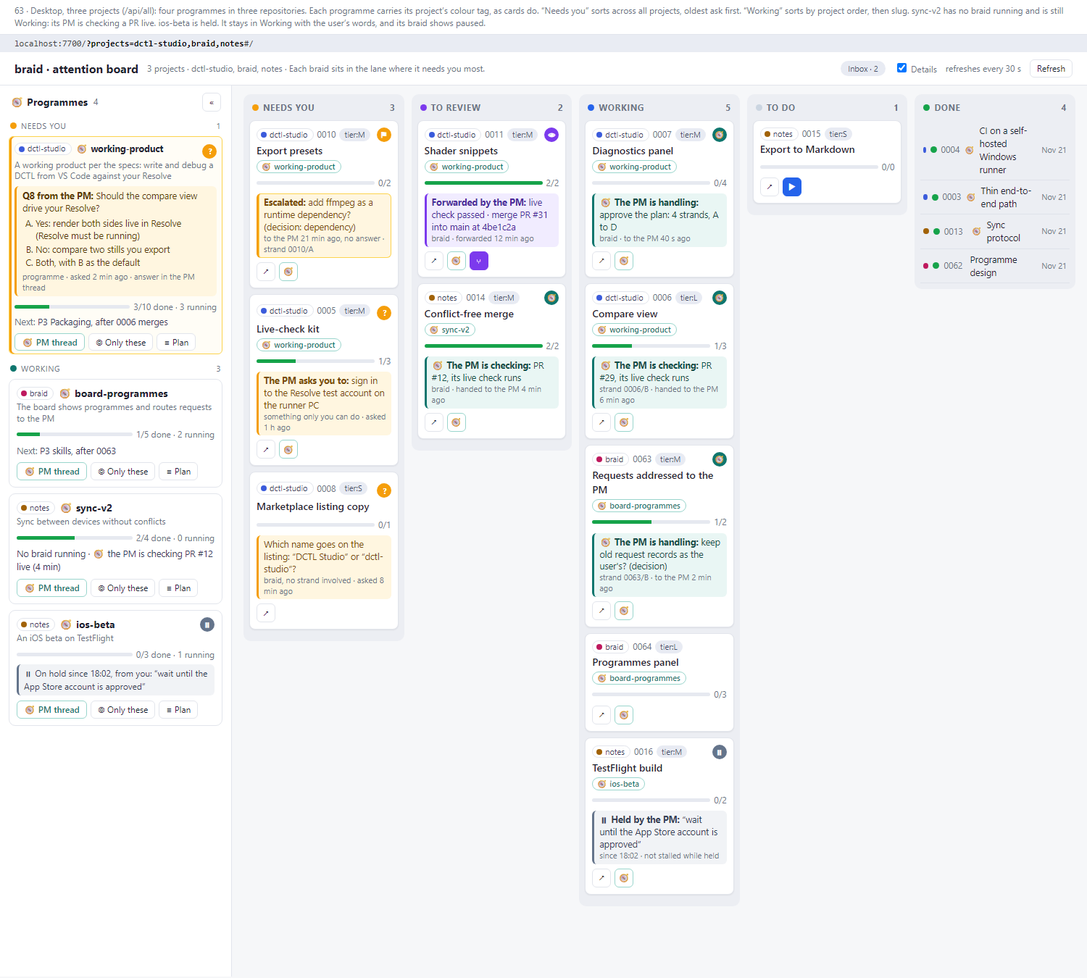
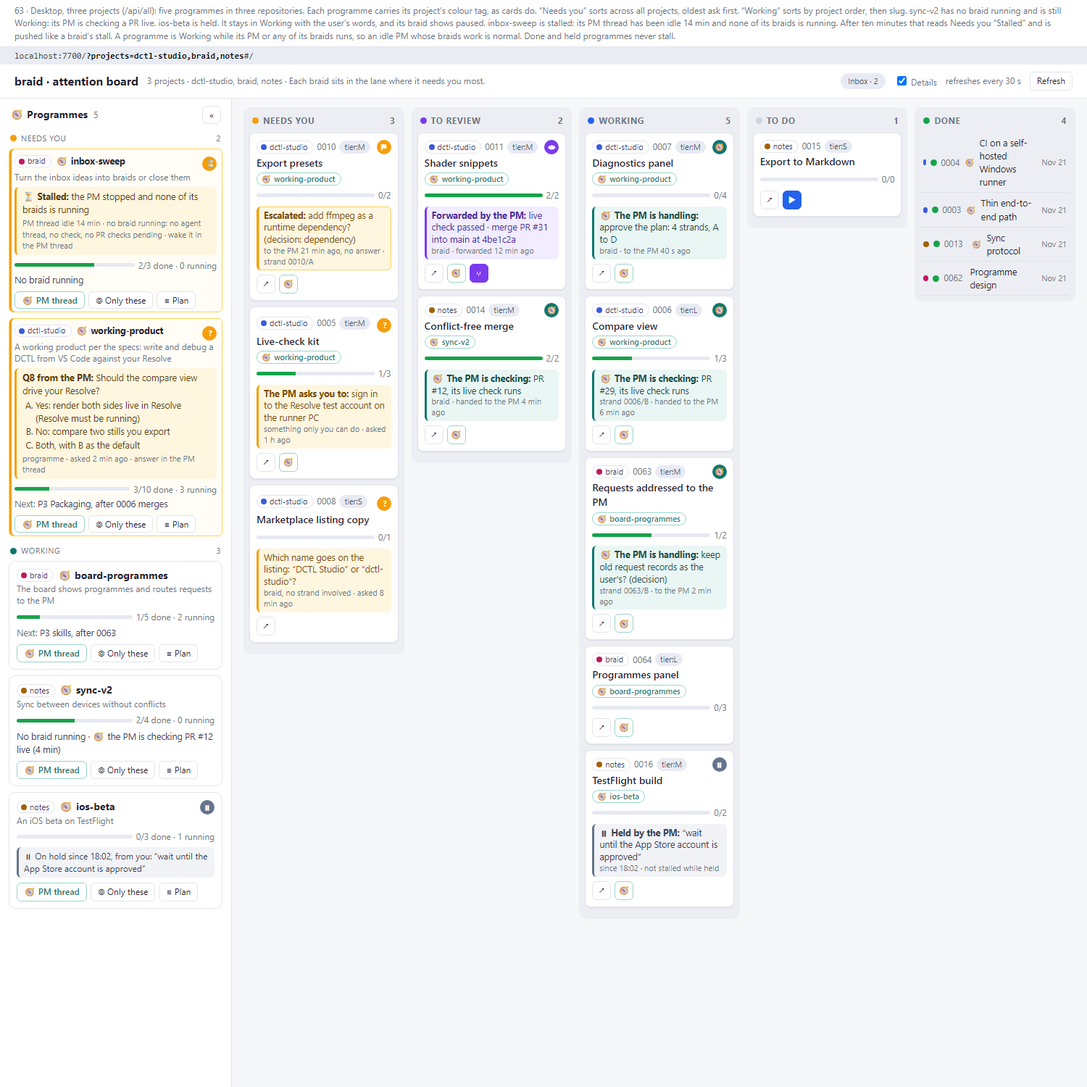
docs(braids): 0062/A programme stall rule, checked against 0061 as built

diff --git a/docs/design/board-mockups/programmes.html b/docs/design/board-mockups/programmes.html
@@ -111,6 +111,9 @@ const PROGS = {
    running:0,done:2,total:4,status:'No braid running · 🧭 the PM is checking PR #12 live (4 min)',braids:['0014']},
  'notes/ios-beta':{project:'notes',slug:'ios-beta',goal:'An iOS beta on TestFlight',
    running:1,done:0,total:3,hold:'⏸ On hold since 18:02, from you: “wait until the App Store account is approved”',braids:['0016']},
+ 'braid/inbox-sweep':{project:'braid',slug:'inbox-sweep',goal:'Turn the inbox ideas into braids or close them',
+   need:{stall:true,lbl:'⏳ Stalled',text:'the PM stopped and none of its braids is running',age:'14 min'},
+   running:0,done:2,total:3,status:'No braid running',braids:[]},
 };
 const LN = ['Needs you','To review','Working','To do','Done'], LC = ['l-wait','l-rev','l-prog','l-todo','l-done'];
 // cards: project, id, tier, title, lane, done, total, need, kind, mark, programme key, buttons
@@ -139,9 +142,9 @@ const stateDot = s=>({done:'l-done',running:'l-prog','waiting on you':'l-wait',p
 const pj = p=>`<span class="pj"><span class="pd p-${p}"></span>${p}</span>`;
 // ---- programme panel ---------------------------------------------------------------------------------------------
 function pcard(key,o){const p=PROGS[key];const sel=o.sel===key;const need=p.need;
- return `<div class="pc ${need?'need':''} ${sel?'sel':''} ${o.sel&&!sel?'dim':''}"><div class="top">${o.multi?pj(p.project):''}<span class="nm">🧭 ${p.slug}</span>${need?'<span class="mk q">?</span>':p.hold?'<span class="mk p">⏸</span>':''}</div>
+ return `<div class="pc ${need?'need':''} ${sel?'sel':''} ${o.sel&&!sel?'dim':''}"><div class="top">${o.multi?pj(p.project):''}<span class="nm">🧭 ${p.slug}</span>${need?`<span class="mk q">${need.stall?'⏳':'?'}</span>`:p.hold?'<span class="mk p">⏸</span>':''}</div>
  <div class="goal">${p.goal}</div>
- ${need?`<div class="q"><span class="lbl">${need.lbl}:</span> ${need.text}<ol type="A">${need.opts.map(x=>`<li>${x}</li>`).join('')}</ol><small>programme · asked ${need.age} ago · answer in the PM thread</small></div>`:''}
+ ${need&&need.stall?`<div class="q"><span class="lbl">${need.lbl}:</span> ${need.text}<small>PM thread idle ${need.age} · no braid running: no agent thread, no check, no PR checks pending · wake it in the PM thread</small></div>`:need?`<div class="q"><span class="lbl">${need.lbl}:</span> ${need.text}<ol type="A">${need.opts.map(x=>`<li>${x}</li>`).join('')}</ol><small>programme · asked ${need.age} ago · answer in the PM thread</small></div>`:''}
  <div class="row" style="margin-top:6px"><div class="bar"><i style="width:${100*p.done/p.total}%"></i></div><span class="mut">${p.done}/${p.total} done · ${p.running} running</span></div>
  ${p.hold?`<div class="hold">${p.hold}</div>`:`<div class="st">${p.status}</div>`}
  <div class="acts"><span class="btn pm">🧭 PM thread</span><span class="btn ${sel?'on':''}" title="${sel?'Show all braids again':'Show only this programme’s braids'}">${sel?'◉ Only these · ✕':'◎ Only these'}</span><span class="btn">≡ Plan</span></div></div>`;}
@@ -163,7 +166,7 @@ function lanes(cards,dones,o={}){const vis=o.sel?cards.filter(c=>c.prog===o.sel)
 function head(multi){return `<header><b>braid · attention board</b><span class="mut">${multi?'3 projects · dctl-studio, braid, notes':'dctl-studio'} · Each braid sits in the lane where it needs you most.</span><span class="sp"></span><span class="badge" style="padding:3px 10px">Inbox · 2</span><label class="mut"><input type="checkbox" checked> Details</label><span class="mut">refreshes every 30 s</span><button>Refresh</button></header>`;}
 const fbar = key=>`<div class="fbar">🧭 Showing only the braids of <b>${key}</b> (${PROGS[key].braids.length}). Your other braids are hidden, and lane counts follow.<span class="sp"></span><span class="btn">Show all</span></div>`;
 const url=(q,h='#/')=>`<div class="url">localhost:7700/<b>${q}</b>${h}</div>`;
-const ONE=[WP], ALL=['dctl-studio/working-product','braid/board-programmes','notes/sync-v2','notes/ios-beta'];
+const ONE=[WP], ALL=['dctl-studio/working-product','braid/board-programmes','notes/sync-v2','notes/ios-beta'], ALL5=['braid/inbox-sweep',...ALL];
 
 // ---- phone -------------------------------------------------------------------------------------------------------
 function ptabs(c,on=0){return `<div class="tabs">${['Needs you','Review','Working','To do','Done'].map((n,i)=>`<a class="${i===on?'on':''}"><b>${c[i]}</b>${n}</a>`).join('')}</div>`;}
@@ -176,7 +179,7 @@ const S = {};
 S['60-panel'] = ()=>`<div class="cap">60 · Desktop, one project. The programmes panel on the left has two sections. A programme that needs you jumps into “Needs you” and shows its question the way a card does: the text, its options, its age, and the PM thread button. Below is “Working”: every programme whose PM runs, even when no braid of it is running. On the right, the lanes are as today. Item-level needs stay on braid cards: an escalated request (0010), a PM action on one braid (0005), a forward (0011). PM-run cards carry the 🧭 programme tag. The lanes no longer hold a programme card.</div>${url('')}${head()}<div class="main">${panel(ONE)}<div class="right">${lanes(CARDS_ONE,DONES_ONE)}</div></div>`;
 S['61-collapsed'] = ()=>`<div class="cap">61 · Desktop, the panel collapsed (« in its header; » brings it back, and the board remembers the choice). The rail keeps one icon per programme. Programmes that need you come first, amber with a count. Working ones show 🧭, or ⏸ when held. Each icon has its project’s colour dot, and its tooltip names the programme.</div>${url('?projects=dctl-studio,braid,notes')}${head(true)}<div class="main col">${rail(ALL)}<div class="right">${lanes(CARDS_ALL,DONES_ALL,{multi:true})}</div></div>`;
 S['62-filtered'] = ()=>`<div class="cap">62 · Desktop, filtered to one programme with its “Only these” button. The button stays pressed, and the other programmes dim. The lanes show only that programme’s braids. A teal bar above them says so and offers “Show all”, which does the same as pressing the button again. The address keeps the filter as ?programme=&lt;project&gt;/&lt;slug&gt;, and it combines with ?projects=.</div>${url('?projects=dctl-studio,braid,notes&programme=dctl-studio/working-product')}${head(true)}<div class="main">${panel(ALL,{sel:WP,multi:true})}<div class="right">${fbar(WP)}${lanes(CARDS_ALL,DONES_ALL,{sel:WP,multi:true})}</div></div>`;
-S['63-projects'] = ()=>`<div class="cap">63 · Desktop, three projects (/api/all): four programmes in three repositories. Each programme carries its project’s colour tag, as cards do. “Needs you” sorts across all projects, oldest ask first. “Working” sorts by project order, then slug. sync-v2 has no braid running and is still Working: its PM is checking a PR live. ios-beta is held. It stays in Working with the user’s words, and its braid shows paused.</div>${url('?projects=dctl-studio,braid,notes')}${head(true)}<div class="main">${panel(ALL,{multi:true})}<div class="right">${lanes(CARDS_ALL,DONES_ALL,{multi:true})}</div></div>`;
+S['63-projects'] = ()=>`<div class="cap">63 · Desktop, three projects (/api/all): five programmes in three repositories. Each programme carries its project’s colour tag, as cards do. “Needs you” sorts across all projects, oldest ask first. “Working” sorts by project order, then slug. sync-v2 has no braid running and is still Working: its PM is checking a PR live. ios-beta is held. It stays in Working with the user’s words, and its braid shows paused. inbox-sweep is stalled: its PM thread has been idle 14 min and none of its braids is running. After ten minutes that reads Needs you “Stalled” and is pushed like a braid’s stall. A programme is Working while its PM or any of its braids runs, so an idle PM whose braids work is normal. Done and held programmes never stall.</div>${url('?projects=dctl-studio,braid,notes')}${head(true)}<div class="main">${panel(ALL5,{multi:true})}<div class="right">${lanes(CARDS_ALL,DONES_ALL,{multi:true})}</div></div>`;
 S['64-programme-details'] = ()=>{const p=PROGS[WP];return `<div class="cap">64 · Desktop, a programme’s details (≡ Plan in its panel card, or a click on its name). The side panel shows what the plan file’s front matter holds: the goal, every plan row with its braid number (P-rows keep their names), next, what the PM is handling now, the last digest, the hold, and the parallel limit. It reads like a braid’s side panel, and the address is #/programme/dctl-studio/working-product.</div>${url('','#/programme/dctl-studio/working-product')}<div style="position:relative;height:960px;overflow:hidden">${head()}<div class="main">${panel(ONE,{sel:null})}<div class="right">${lanes(CARDS_ONE,DONES_ONE)}</div></div>
  <div class="panel"><div class="ph2"><h2>🧭 working-product</h2><span class="pj"><span class="pd p-dctl-studio"></span>dctl-studio</span><span class="sp"></span><span class="btn pm">🧭 PM thread</span><span class="btn">◎ Only these</span><button>✕</button></div>
  <div class="body"><div class="q" style="margin:0"><span class="lbl">Q8 from the PM:</span> ${p.need.text}<ol type="A">${p.need.opts.map(x=>`<li>${x}</li>`).join('')}</ol><small>asked 2 min ago · answer in the PM thread</small></div>

diff --git a/braids/0062-programme-manager-on-the-board-and-in/A-spike-programme-model-routing-pushes-and/report.md b/braids/0062-programme-manager-on-the-board-and-in/A-spike-programme-model-routing-pushes-and/report.md
@@ -12,7 +12,7 @@ A request addressed to the PM stays in Working with a teal "PM is handling" line
 
 The PM's own questions become requests on the programme (`braid ask pm/<slug>`) or on the braid they concern. They are pushed at high priority with the PM thread as the click target.
 
-On the board, programmes get a collapsible panel on the left, revised after the user's review. It has two sections, "Needs you" on top and "Working" below. A programme is Working whenever its PM runs, and it jumps to Needs you while one of the PM's own questions or actions is open. Each programme has an "Only these" button that filters the lanes to its braids. The panel lists the programmes of every project the board serves, keyed `<project>/<slug>` (question 9). Needs that belong to one braid stay on its card in the lanes.
+On the board, programmes get a collapsible panel on the left, revised after the user's review. It has two sections, "Needs you" on top and "Working" below. A programme is Working whenever its PM runs, and it jumps to Needs you while one of the PM's own questions or actions is open, or when for ten minutes neither its PM nor any of its braids has been running (an idle PM whose braids work is normal). Each programme has an "Only these" button that filters the lanes to its braids. The panel lists the programmes of every project the board serves, keyed `<project>/<slug>` (question 9). Needs that belong to one braid stay on its card in the lanes.
 
 A hold is 0061's paused state with a second reason. The names `braid-pm`, `🧭 … pm:` and `pm/<slug>` stay. ntfy action buttons wait for a later braid.
 
@@ -80,13 +80,24 @@ The user's reasons: a programme isn't a braid. Several of its braids run at once
 - **Where.** A panel on the left of the lanes, about 320 px wide. « in its header collapses it to a rail of icons, and » brings it back. The board remembers the choice in the browser (local storage), like Details.
 - **Two sections**, stacked vertically:
   - **Needs you**: a programme with an open request of the PM's own on the programme (`braid ask pm/<slug>`; question 3). Its card shows the request the way a braid card does: the label ("Q8 from the PM", "The PM asks you to"), the text with its options as a list, the age, "answer in the PM thread", and the 🧭 PM thread button. The oldest ask comes first.
-  - **Working**: every other programme whose plan `state` is `running` or `held`, whether or not a braid of it runs. Its card shows the goal, a done bar with "3/10 done · 3 running", and one status line. That line is `next` from the front matter, or what the PM is doing when no braid runs ("No braid running · the PM is checking PR #12 live"), or the hold in the user's words.
+  - **Working**: a programme whose PM thread is running, or at least one of whose braids is running (rule below), or which is held. Its card shows the goal, a done bar with "3/10 done · 3 running", and one status line. That line is `next` from the front matter, or what the PM is doing when no braid runs ("No braid running · the PM is checking PR #12 live"), or the hold in the user's words.
   - `done` and `stopped` programmes leave the panel. Their details stay reachable from the braids' 🧭 tags.
 - **Only these.** Each card has a "◎ Only these" button that shows just that programme's braids in the lanes. The button stays pressed, the other cards dim, and a teal bar above the lanes says what is shown and offers "Show all". Pressing the button again does the same. The address keeps it as `?programme=<project>/<slug>`, rewritten like `?projects=` without a history entry. Lane counts, the phone tabs and the inbox chip follow it.
 - **Details.** "≡ Plan", or a click on the name, opens a side panel like a braid's (`#/programme/<project>/<slug>`). It shows the open question, the goal, every plan row with its braid number, next, what the PM is handling, the last digest, the parallel limit, the hold, and a link to the plan file (screen 64).
 - **Rail.** Collapsed, the panel keeps one icon per programme. Programmes that need you come first, amber with a count. Working ones show 🧭, or ⏸ when held. Each icon has its project's colour dot, and its tooltip names the programme (screen 61).
-- **What stays on braid cards.** Item-level needs stay in the lanes: a coordinator request to the PM (Working, teal), one escalated or forwarded to the user, a PM action on one braid ("The PM asks you to" on 0005). Only the PM's own requests on the programme put the programme itself into Needs you. The lanes no longer have a programme card, and there is no Programmes block above them.
-- **A PM thread that stopped.** If the plan says `running` but T3 says the PM thread is archived, unknown or failed, the card stays in Working with a red line, "The PM thread failed 12 min ago", and the PM's open requests escalate to their braid cards (question 2). Per the user's rule, this doesn't move the programme to Needs you. If the user wants a stopped PM to count as needing them, it is a one-line change in D. That is open for their review.
+- **What stays on braid cards.** Item-level needs stay in the lanes: a coordinator request to the PM (Working, teal), one escalated or forwarded to the user, a PM action on one braid ("The PM asks you to" on 0005). The PM's own requests on the programme put the programme itself into Needs you, and so does a stalled PM (next point). The lanes no longer have a programme card, and there is no Programmes block above them.
+- **A stalled programme** (decided by the user in review; screen 63). In the user's words: "usually pm has some braids running, or if not, it's running itself. otherwise it can be stalled unless it's marked done". So a programme is Working while either of these holds:
+  - its PM thread is running;
+  - at least one of its braids is running: any agent thread of the braid runs (coordinator, worker or reviewer, as D46 counts them [S9]), or the PM's checker thread for it (`🧭 <repo> pm check: …`), or a PR of the braid has checks pending.
+
+  Otherwise, after ten minutes, the programme reads Needs you `stalled`: "⏳ Stalled: the PM stopped and none of its braids is running". An idle PM thread counts as not running, and so does one that is failed, archived or unknown to T3. The rule has the same shape and clock as the braid-level stall (D46 [S9], `docs/board.md` "stalled, braid with strands" [S5]), and it applies only after T3 and GitHub were read. The clock sits in `.braid/broke.json` under its own key, `<project>/<slug> pm`, apart from the braids' keys. It clears as soon as the PM or any of its braids runs again, so a brief blip in a T3 read raises no alarm.
+
+  Not stalled:
+  - a programme marked `done` (or `stopped`) in its plan, which leaves the panel;
+  - a programme on hold: the plan's `hold` is set, or every braid of it that isn't Done is paused (0061's limit pause or a hold; question 6). It stays Working with the hold's words or the pause line;
+  - a programme with a PM request to the user open, which is already in Needs you for that request. The request shows, and no stall line is added.
+
+  The card adds what it saw ("PM thread idle 14 min · no braid running"), or names a thread that is gone ("the PM thread failed 12 min ago"). The push is `<repo> <slug>: Needs You`, with tag `stalled` ⏳ and priority high, and tapping it opens the PM thread. Open requests to a failed or gone PM still escalate onto their braid cards at once, as question 2 designs; that path doesn't wait for this clock.
 - **Options.** A request has no options field [S6], and none is added. The PM writes the options as lines of the text ("A. …", "B. …"). The panel shows the text's lines, and lines starting with a letter and a dot show as a list. The answer is given in the PM thread, as today: the board has no Answer button [S5].
 - **Phone** (screens 66–67). The panel becomes a strip above the lane tabs. Closed, it is one 48 px line: "🧭 1 needs you · 3 working", amber when a programme needs you. Open, it lists programmes that need you as cards (question, options, a 44 px PM thread button), then working programmes one line each with 🧭 and ◎ buttons. A programme filter shows as a chip under the strip, and ✕ clears it.
 
@@ -114,7 +125,7 @@ The user's reasons: a programme isn't a braid. Several of its braids run at once
 1. **Timeout:** 20 min for a question, decision or plan, and 60 min for a handover (a review).
    - Base rate [S1]: the PM's answer gaps were 6–55 s, so 20 min is over 20 times the slowest and leaves room for a PM in a long turn on something else. A live check took 2.7 and 19.4 min, and the failed first check of 0003 about 18 min, so 60 min covers one check and a re-check.
    - These are constants, like the 10-minute broke clock. Made configurable only if a run shows the need.
-2. **The PM thread is not there to answer:** T3 says it is archived, unknown or failed (`t3 thread list` status). An idle PM thread is normal (the PM waits by ending its turn [S3]) and doesn't escalate.
+2. **The PM thread is not there to answer:** T3 says it is archived, unknown or failed (`t3 thread list` status). An idle PM thread is normal (the PM waits by ending its turn [S3]) and doesn't escalate. A programme whose PM is idle and none of whose braids is running is the programme-level stall (question 1, "A stalled programme").
 3. **The PM forwards it:** `braid forward <id> [--note <text>]`, run by the PM, sets `to: "user"` and `forwarded: <time>`, and keeps the text, adding the note. It then reads as an ordinary request of the user's, with "Forwarded by the PM:" and the PM thread as click. This is the fix for #147: the coordinator's request stays open, now for the user.
 
 No request escalates while its braid is paused or held (question 6).
@@ -166,6 +177,7 @@ Agent Inbox's item ("action request" plus the responses it allows [S19]) points 
 | The PM's own request (programme or braid) | yes, title `<repo> <slug>: the PM asks` | high | the PM thread |
 | The PM's `action` request | yes, "the PM asks you to" | high | the PM thread |
 | A PM-run braid becoming Done | yes | **low** (no sound or vibration [S12]) | none |
+| A programme stalled (PM not running and none of its braids running, 10 min) | yes, `<repo> <slug>: Needs You`, tag ⏳ | high | the PM thread |
 | The broke alarms on a PM-run braid (checks failed, stalled) | yes | default (not high) | the PM thread |
 | The digest; PM-run strands merging | none | | |
 | Held or paused braids | none | | |
@@ -201,26 +213,43 @@ Not adopted: `braid ask` sending its push at once. It would split sending betwee
 
 ## 6. Hold and pause
 
-**Recommendation: one board state, "paused" (grey ⏸), with two reasons.**
+**Recommendation: one board state, 0061's "paused", with two reasons.**
 
-- The two reasons are 0061's rate-limit pause and the user's hold.
-- Both mean no Needs You, no `stalled`, no escalation and no push [S10].
+- The two reasons are 0061's provider-limit pause and the user's hold.
+- Both mean no Needs You, no `stalled`, no escalation and no push [S10][S29].
+- They use 0061's mark as built: the sky pause icon, and a line on Working and To Do cards when Details is on [S29]. The mockups here draw it grey; read that as 0061's sky mark.
 - The line says which reason applies:
-  - "⏸ Paused: Claude 5-hour window 93 %, resumes 21:40";
-  - "⏸ Held by the PM: “Please freeze work…” · since 16:31".
+  - a limit, as 0061/C words it: "Paused: Claude_Everix Session 97%, resumes 21:05", with "paused by the coordinator 18 min ago" under it [S29];
+  - a hold: "Held: “Please freeze work…”", with "held by the PM since 16:31" under it.
 
 The mockup's screen 63 shows a held programme (`notes/ios-beta`) in Working, with its braid paused.
 
-**Store.** The hold uses 0061/C's `.braid/pauses.json` with a `reason: "hold"` and the user's words, and no `resumeAt`, through `braid pause <n> --hold "<words>" --thread <PM thread>`. The PM runs it for each running braid when it sends `Hold from the user` [S3]. `braid resume` clears it.
+**Store.** The hold uses 0061/C's `.braid/pauses.json` and `braid pause` / `braid resume`. As built, though, they don't fit a hold yet (checked against `origin/braid/0061-…` at 59a723c5, PR #229 [S29]):
+
+- A record requires `provider` (non-empty) and `resumeAt` (ISO), and has no reason field. A hold has neither a provider nor a resume time.
+- `braid pause` requires `--provider`, and refuses unless `braid limits` says `pause` or `--until` is given.
+- Past `resumeAt`, the mark turns amber after 15 min ("resume was due"), and the item reads `stalled` after 25 min (`src/board/pause.ts`).
+- A record that fails validation is left out with a note, so a hold record would be dropped by a 0061-era board.
+
+So strand B extends the store, as follows:
+
+- A record gains `reason: "limit" | "hold"`, where a missing reason reads as `limit`, so 0061's records stay valid. A hold also gains `words` (the user's words).
+- For a hold, `provider`, `resumeAt`, `window` and `task` are null. Validation requires them only for `limit`.
+- `braid pause <n> --hold "<words>" --thread <id> [--by pm]` writes a hold. `--provider` and `braid limits` are not used.
+- The overdue phases (`due`, `over`) apply only to a limit. A hold has no due time, so it never turns amber or `stalled`. It shows its age instead.
+- `braid status` and the details box show the hold and its words.
+- `braid resume <n>` clears either kind, as built.
+
+The PM runs `braid pause --hold` for each running braid when it sends `Hold from the user` [S3], and `braid resume` on "go".
 
 - A pause record already says who paused (`coordinator` or `pm`) [S10].
 - One store means one rule in `derive`, and a hold works for a braid the user runs without a PM too.
-- A hold has no due time, so it never turns `stalled`. It shows its age instead.
 - The plan's front-matter `hold` field gives the programme's panel card "On hold since 16:31" and the user's words. A held programme stays in Working: a hold is the user's own choice and needs nothing from them.
+- **A programme paused for a limit.** Under 0061/D the PM pauses every braid on the provider and keeps a resume task in its own thread [S30]. While every braid of the programme that isn't Done is paused (for either reason), the programme counts as held for the stall rule (question 1). Its card shows "Paused for Claude_Everix Session until 21:05". Once the resume is overdue, 0061's own `stalled` on the braids takes over [S29].
 
 Against: the hold is written twice, in the plan file and once per braid. The other way, deriving each braid's hold from the plan, would make B's escalation and the board's `stalled` read plan files. That couples B to D, and a held user-run braid would have no store.
 
-**Dependency.** This needs 0061/C merged. The braid brief already starts B to D after 0061.
+**Dependency.** 0061/C is merged into the 0061 braid branch (PR #229), not yet into `main`. 0061/D (PR #231, skills) is open. B and E start after 0061 merges into `main`, which the braid brief already requires for B to D.
 
 ## 7. Naming
 
@@ -263,9 +292,9 @@ The board can serve several projects (`/api/all`, `?projects=` [S5]). The panel 
 
 ## Strands, restated
 
-Sizes are estimates. Together about 2,050 lines, more than the braid's 1,200: the plan-file contract, the second request slot and the programmes panel across projects weren't in the original estimate.
+Sizes are estimates. Together about 2,240 lines, more than the braid's 1,200: the plan-file contract, the second request slot and the programmes panel across projects weren't in the original estimate.
 
-**B. Requests addressed to the PM (M, about 450 lines, 9 files).**
+**B. Requests addressed to the PM, and the hold in the pause store (M, about 570 lines, 12 files).**
 
 What it builds:
 
@@ -275,13 +304,15 @@ What it builds:
 - The notifier pushes only what is on the user's side, with high priority and the right click for escalations and forwards.
 - `braid status` and `braid requests` show the addressee.
 - The ntfy sequence ID with `clear` on close.
+- The hold in 0061/C's pause store (question 6): `reason` (missing reads as `limit`) and `words` on a record; `provider`, `resumeAt`, `window` and `task` null for a hold; `braid pause <n> --hold "<words>" --thread <id> [--by pm]`; the overdue phases only for a limit; the hold shown in `braid status`, on the card line and in the details box.
 
-Needs 0061/C (paused). Completion boxes:
+Needs 0061 merged into `main` (0061/C's `pauses.json`, `braid pause`, `braid resume` and paused marks). Completion boxes:
 
 - [ ] A request opened with `--to pm` reads Working with "The PM is handling" and sends no push; tests cover each lane rule
 - [ ] It reads Needs You (a review: To Review) and is pushed once after 20 min (a review: 60 min), when the PM thread is archived, unknown or failed, or after `braid forward`, and never while the braid is paused; tests cover each case
 - [ ] Old request records without `to` read as the user's
 - [ ] An answered request's push is cleared on Android (sequence ID), checked with `braid notify test`
+- [ ] `braid pause <n> --hold "<words>"` records a hold with no provider or resume time; it shows paused with the words, never turns amber or stalled, and `braid resume` clears it; 0061's limit records without `reason` still read as before; tests cover both kinds
 
 **C. The PM asks you through the board (M, about 350 lines, 8 files).**
 
@@ -299,13 +330,14 @@ Completion boxes:
 - [ ] `braid ask pm/<slug>` opens a programme request that shows in Needs You and is pushed at high priority with the PM thread as click
 - [ ] `--kind action` reads "The PM asks you to: …" on the board and in the push
 
-**D. The programmes panel on the board (L, ui, about 950 lines, 12 files).**
+**D. The programmes panel on the board (L, ui, about 1,000 lines, 13 files).**
 
 What it builds:
 
 - The plan front-matter format, with a reader and `braid check --plan`.
 - The board reads `pm/*` branches per project, and `programmes` in `/api/board` and `/api/all` (question 9).
 - The collapsible programmes panel left of the lanes, with Needs you and Working sections, and the rail (screens 60, 61 and 63).
+- The programme-level stall (PM not running and no braid running, except done, held or asking): its clock key `<project>/<slug> pm` in `broke.json`, the card line and the push (screen 63).
 - "Only these" with `?programme=<project>/<slug>`, combined with `?projects=` (screen 62).
 - The programme details side panel (screen 64).
 - The 🧭 tag on PM-run cards and Done rows, and project colour tags on programme cards.
@@ -315,20 +347,22 @@ What it builds:
 
 Needs B and C. Completion boxes:
 
-- [ ] A plan with valid front matter shows as a programme in the panel, in Needs you while a PM request on it is open and in Working otherwise, including with no braid running; an unreadable one shows "plan unreadable: <line>" and the board still works
+- [ ] A plan with valid front matter shows as a programme in the panel, in Needs you while a PM request on it is open and in Working otherwise while its PM or one of its braids runs (including an idle PM whose braids work, and a running PM with no braid running); an unreadable one shows "plan unreadable: <line>" and the board still works
+- [ ] A programme whose PM thread isn't running (idle, failed, archived or gone) and none of whose braids is running (no agent thread, no checker, no PR checks pending) reads Needs you `stalled` after ten minutes on its own clock (`<project>/<slug> pm`) and is pushed once; it clears when the PM or a braid runs again; a done, stopped or held programme never stalls, and one with an open PM request shows that request instead; tests cover each case
 - [ ] "Only these" filters the lanes to the programme's braids and back, keeps `?programme=<project>/<slug>` with `?projects=`, and survives a reload on desktop and phone
 - [ ] With several projects served, the panel lists every shown project's programmes with project tags; two projects with the same slug stay apart in the panel, the filter and the pushes
 - [ ] The panel collapses to the rail and back, and the board remembers the choice
 - [ ] A held programme shows the user's words on its card, and its braids show paused, not stalled
 - [ ] Screenshots of each screen, matching the approved mockups
 
-**E. Skills: the programme manager routes through the board (L, about 200 lines, 4 files).**
+**E. Skills: the programme manager routes through the board (L, about 220 lines, 5 files).**
 
 What it builds:
 
 - `braid-pm` is named "programme manager". It keeps the plan file's front matter (the template changes) and validates it with `braid check --plan`.
 - It asks the user through `braid ask pm/<slug>` or `--by pm` (still also in chat, context first).
-- It forwards with `braid forward`, holds with `braid pause --hold`, and writes `digest`.
+- It forwards with `braid forward`, and writes `digest`.
+- **Builds on 0061/D** (PR #231), which rewrote braid-pm's "Hold" line and added "Provider limits" to braid-pm and "Under a PM" to `references/limits.md` [S30]. As 0061/D leaves it, a hold is message-only: `Hold from the user: <words>` to every coordinator, noted in the plan file. E adds `braid pause <n> --hold "<words>" --thread <PM thread> --by pm` for each running braid and the front-matter `hold`, and `braid resume` on "go". It keeps 0061/D's limit protocol as is: the PM's `braid pm limits check` task, `braid pause --by pm`, and its resume task. E changes 0061/D's text, so it starts after #231 merges and edits those sections rather than rewriting them.
 - "Launched by a PM" uses `--to pm` on `ask` and `handover`, and never closes a request the user still has to act on.
 
 Changes skills, so the user merges it. Completion boxes:
@@ -336,6 +370,7 @@ Changes skills, so the user merges it. Completion boxes:
 - [ ] `braid-pm` and "Launched by a PM" use `--to pm`, `braid forward`, `braid ask pm/<slug>`, `--kind action` and `braid pause --hold` as built
 - [ ] The plan template has the front matter, and the skill validates it before each push
 - [ ] The name "programme manager" throughout; `braid-pm`, `🧭 … pm:` and `pm/<slug>` unchanged
+- [ ] braid-pm's "Hold" records `braid pause --hold` per running braid and the plan's `hold`, and "Provider limits" from 0061/D is unchanged
 
 **F. Docs (L, about 200 lines).**
 
@@ -352,7 +387,7 @@ No strand is dropped. The headless board is docs in F, not a strand of its own.
 
 ## Validation
 
-- `npm run verify` passed locally on 2026-11-21: 444 tests, 0 failed.
+- `npm run verify` passed locally on 2026-11-22: 444 tests, 0 failed.
 - The mockups render in Edge headless (screenshots in `screenshots/`).
 - The report changes no product code, skill or docs; the only new file outside the item folder is `docs/design/board-mockups/programmes.html`.
 - Docs: none affected (a spike with mockups only).
@@ -364,7 +399,7 @@ No strand is dropped. The headless board is docs in F, not a strand of its own.
 - 60 desktop, one project: the programmes panel with a programme in Needs you, the lanes with the PM-handled, escalated, forwarded and PM-asked braid cards;
 - 61 the panel collapsed to its rail, three projects;
 - 62 filtered to one programme ("Only these"), three projects;
-- 63 three projects, four programmes: one needs you, one has no braid running, one is held;
+- 63 three projects, five programmes: one asks you a question, one is stalled, one has no braid running, one is held;
 - 64 a programme's details side panel;
 - 65 the side panel of a braid whose request the PM handles (unchanged);
 - 66 the phone, the programmes strip open;
@@ -387,8 +422,8 @@ Needs the user: `architecture`: the design for programmes on the board (screens 
 - the plan file's front matter, which the PM writes and the board reads;
 - request fields `to`, `pm` and `by`, and the new kind `action`;
 - the new command `braid forward`;
-- `braid pause --hold` on 0061's store;
+- `braid pause --hold` on 0061's store, which needs `reason` and nullable `provider` and `resumeAt` in its records (question 6);
 - the 20 and 60 min escalation timeouts;
 - the programme key `<project>/<slug>`, `programmes` in `/api/board` and `/api/all`, and `?programme=`.
 
-Open for the user's review: whether a PM thread that stopped puts its programme into Needs you. The design keeps it in Working with a red line, per the user's rule that only the PM's own requests do.
+Settled in review: a programme is Working while its PM or one of its braids runs. Otherwise, after ten minutes, it reads Needs you `stalled`, unless it is done, held, or already in Needs you for a PM request (question 1, "A stalled programme").

diff --git a/braids/0062-programme-manager-on-the-board-and-in/A-spike-programme-model-routing-pushes-and/sources.md b/braids/0062-programme-manager-on-the-board-and-in/A-spike-programme-model-routing-pushes-and/sources.md
@@ -76,3 +76,17 @@ The thread S1 and the plan file S2 were read whole by a researcher subagent I la
 - S28 `docs/design/board-mockups/all-projects.html` — this repository · version: ab06142 · accessed 2026-11-21 · read: part (its CSS, the project lines, the phone picker) · says: the approved style for a block above the lanes, filter lines and the phone picker sheet. · adopted as the style of `programmes.html`.
 
 Set aside: OpenAI Agents SDK, Temporal, Devin and the Copilot coding agent were not read, for time. Three orchestrators with readable docs were enough to show that none has built-in escalation on timeout. ArchWiki's Systemd/User page was blocked by bot protection, so the freedesktop man pages were used instead. A search summary calling Agent Inbox active was set aside: GitHub shows it archived.
+
+Added after the design review, to check question 6 and strands B to E against 0061 as built:
+
+- S29 0061/C as built — branch `origin/braid/0061-pause-and-resume-braids-on-provider-rate` (PR #229 merged into it) · version: 59a723c5 (2026-11-21 23:30 +0100) · accessed 2026-11-22 · read: part (`src/braids/pauses.ts` whole; `src/board/pause.ts` phases; the diff of `docs/cli.md`, `docs/braids-format.md` and `docs/decisions.md` D86; `docs/board.md` "Paused") · says:
+  - A pause record requires `braid`, a non-empty `provider`, `resumeAt` (ISO), `thread`, `by` (`coordinator` or `pm`) and `at`, with `window`, `label`, `usedPercent`, `resetsAt` and `task` nullable. It has no reason field. Invalid records "are left out with a note".
+  - `braid pause` needs `--provider` and is "refused unless the verdict is `pause`" or `--until` is given.
+  - The board shows "a sky pause icon" and a line on Working or To Do cards. A pause "opens no Needs You", and `stalled` "is held back (both kinds)".
+  - 15 min past `resumeAt` the mark turns amber ("resume was due"). At 25 min the item reads `stalled`.
+  · adopted: the hold goes in this store, which needs `reason` and nullable `provider` and `resumeAt` (strand B).
+- S30 0061/D, pause and resume in the skills — PR #231 (`braid/0061/D-pause-and-resume-in-the-skills`, open) · version: the PR diff on 2026-11-22 · accessed 2026-11-22 · read: part (the diff of `braid-pm/SKILL.md`, `braid/SKILL.md`, `references/limits.md`, `references/autonomy.md` and `braid-worker/SKILL.md`) · says:
+  - braid-pm gets "Provider limits": a `braid pm limits check` task every 15 min, a pause message to each coordinator, `braid pause --by pm`, and a resume task in the PM's thread.
+  - braid-pm's "Hold" stays message-only and adds "A pause for a provider's usage limit is "Provider limits" instead."
+  - Under a PM, a coordinator over a threshold tells the PM and runs no `braid pause`.
+  · adopted: E builds on these sections after #231 merges, and adds `braid pause --hold` to "Hold".

diff --git a/braids/0062-programme-manager-on-the-board-and-in/A-spike-programme-model-routing-pushes-and/log-2026-11-21-fd8726dc.md b/braids/0062-programme-manager-on-the-board-and-in/A-spike-programme-model-routing-pushes-and/log-2026-11-21-fd8726dc.md
@@ -17,3 +17,15 @@ done: gate passed (444 tests). next: PR into the braid branch, report to the coo
 Decided (user review): programmes move to a collapsible left panel with Needs you and Working sections; the programme card in the lanes and the block above them are gone. Item-level needs stay on braid cards.
 Decided: programme key <project>/<slug> on the board, programmes in /api/board and /api/all, ?programme= combines with ?projects=; question 9 added. Strand D grows to about 950 lines.
 Open for the user: a stopped PM thread keeps its programme in Working (red line), per the rule that only PM requests put it in Needs you.
+
+## 2026-11-21 23:07Z
+
+Decided (user review): an idle PM is not stopped. A programme reads Needs you stalled when its PM thread is not running (idle, failed, archived, gone) and nothing will wake it (no coordinator of its braids running, no request to or from the PM open, no checker running) for ten minutes, on clock key <project>/<slug> pm, as D46. Design approved.
+
+## 2026-11-21 23:10Z
+
+Decided (user correction, replaces the previous stall rule): a programme is Working while its PM thread runs or any of its braids runs (any agent thread, the PM checker, or PR checks pending). Otherwise, after ten minutes on clock <project>/<slug> pm, it reads Needs you stalled, unless done, held/paused, or already in Needs you for an open PM request.
+
+## 2026-11-21 23:14Z
+
+Finding: 0061/C as built (59a723c5) requires provider and resumeAt on a pause record and has no reason, and braid pause needs --provider; a hold needs reason, words and nullable provider/resumeAt, and the overdue phases only for limits. Moved into strand B. 0061/D (PR 231) leaves the PM hold message-only; E builds on it after it merges. A programme whose non-Done braids are all paused counts as held for the stall rule.
